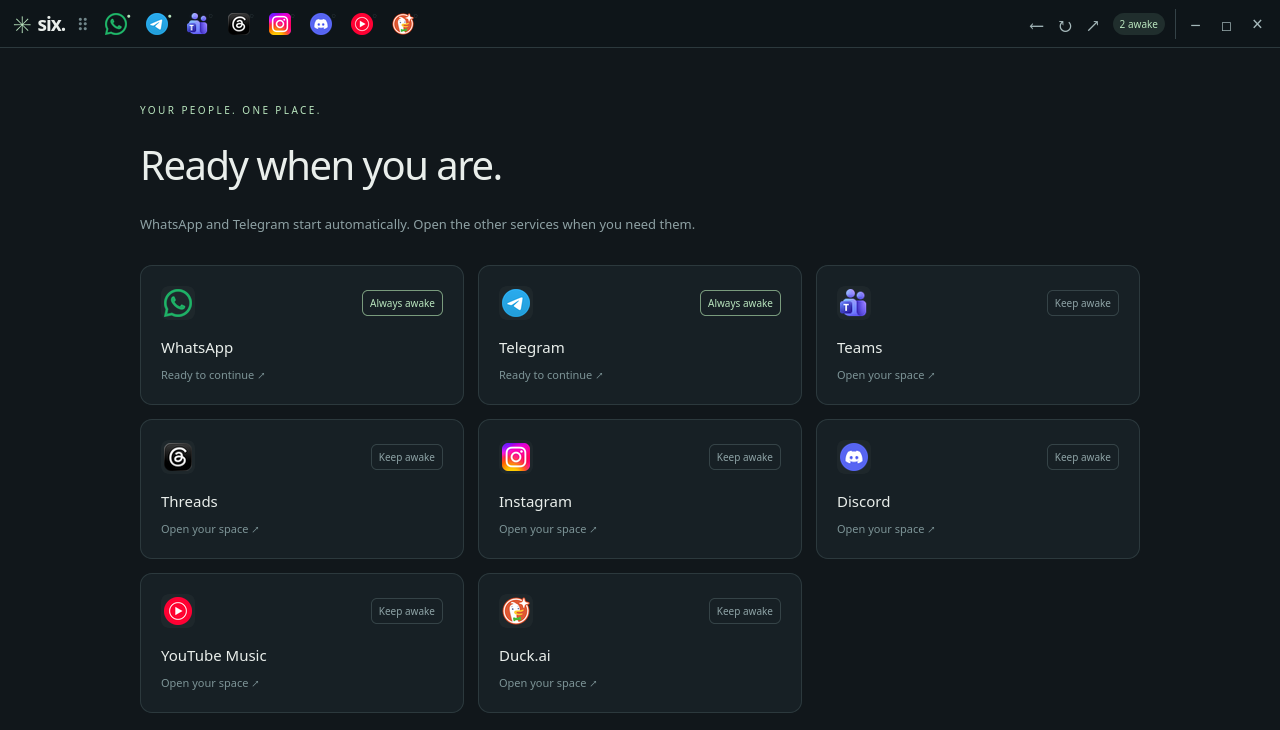
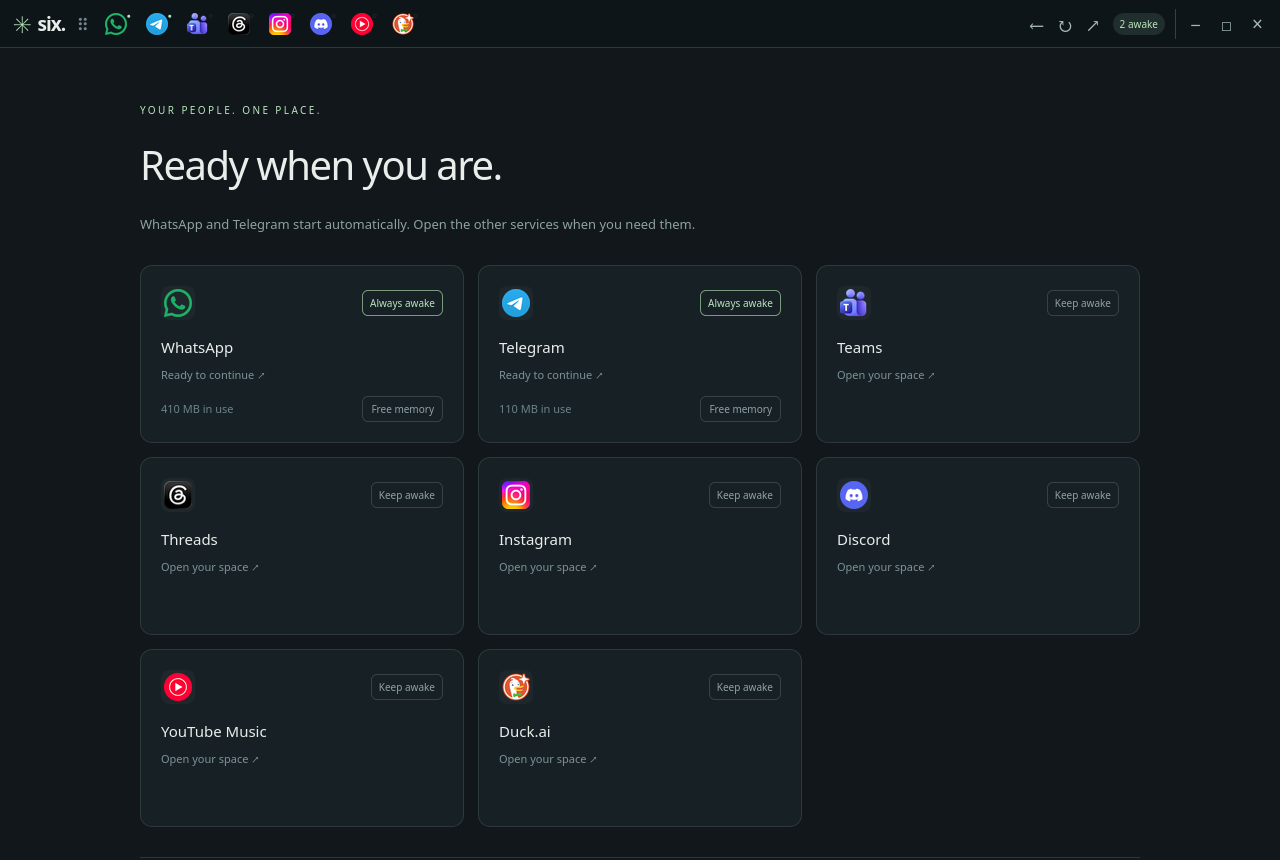
Close idle services sooner when memory is low; add a Free memory button
- Below ~2 GB available memory, idle services pause after 2 minutes and
  close a minute later; normal timing returns above ~2.5 GB. Nothing
  changes while memory is fine, and the usual protections (service in
  use, WhatsApp, Telegram, pinned, calls, recent sound) still apply
- Each open service's card gets a Free memory button: reload for
  services that must stay loaded, close for the rest; asks first for
  Teams, Discord and anything playing, refuses during a Teams call
- Cards keep equal height; README and picture updated

diff --git a/main.js b/main.js
@@ -2,7 +2,7 @@ const {components,desktopCapturer,app,BrowserWindow,WebContentsView,ipcMain,shel
 const {execFile}=require('node:child_process');
 const {checkForUpdate}=require('./electron-update');
 const {stageUpdate,pruneOldVersions,readBad}=require('./self-update');
-const {measureMemory,describeMemory}=require('./memory');
+const {measureMemory,describeMemory,availableMB}=require('./memory');
 const os=require('node:os');
 const {notificationsAllowed,audioMuted,browserUserAgent,popupAllowed,authUserAgent,isGoogleAuth,sanitizeAuthHeaders}=require('./notification-policy');
 const {teamsMediaAllowed,protectedMediaAllowed}=require('./media-policy');
@@ -14,7 +14,7 @@ const {contentStyle,authStyle}=require('./content-style');
 const {applyAdblock}=require('./adblock');
 const {contextMenuItems}=require('./context-menu');
 const path=require('node:path'),fs=require('node:fs');
-const {services,startupServices,sleepCandidates,discardCandidates,recentlyAudible,safeURL,alwaysAwake}=require('./policy');
+const {services,startupServices,sleepCandidates,discardCandidates,nextLowMemory,idleDelays,recentlyAudible,safeURL,alwaysAwake}=require('./policy');
 app.setName('Six');
 // Cap each service's HTTP cache (Chromium otherwise grows it to gigabytes per service).
 app.commandLine.appendSwitch('disk-cache-size',String(256*1024*1024));
@@ -25,7 +25,7 @@ if(hardwareVideo)app.commandLine.appendSwitch('enable-features','AcceleratedVide
 // castlabs Electron ships Widevine through a component updater; stock Electron has no `components`.
 const widevineReady=app.whenReady().then(()=>components?.whenReady()).catch(err=>console.warn('Six: Widevine unavailable',err));
 if(!app.requestSingleInstanceLock()){app.quit()}else{
-let win,tray,updateInfo=null,updating=false,active=null,quitting=false,settings={},shutdownFlushing=false,shutdownSaved=false,sessions=new Set(),views=new Map(),popups=new Map(),crashes=new Map();
+let lowMemory=false,win,tray,updateInfo=null,updating=false,active=null,quitting=false,settings={},shutdownFlushing=false,shutdownSaved=false,sessions=new Set(),views=new Map(),popups=new Map(),crashes=new Map();
 // Write then rename, so a crash or power loss mid-save cannot leave a half-written settings file.
 function save(){const file=path.join(app.getPath('userData'),'settings.json');try{fs.writeFileSync(file+'.tmp',JSON.stringify(settings));fs.renameSync(file+'.tmp',file)}catch(err){console.warn('Six: could not save settings',err.message)}}
 let memorySample={at:0,total:0,services:{}},memoryBusy=false;
@@ -138,6 +138,25 @@ function installElectronUpdate(){
   if(err.code===126||err.code===127)return; // password prompt dismissed
   dialog.showMessageBox(win&&!win.isDestroyed()?win:undefined,{type:'error',title:'Electron update failed',message:'Electron '+version+' was not installed',detail:String(stderr||err.message).slice(-600)+'\n\nSix keeps running on '+electronVersion.split('+')[0]+'.'}).catch(()=>{});
  });
+}
+// "Free memory" on a card: reload a service that is in use or must stay awake (WhatsApp, Telegram, pinned),
+// close any other one completely. Calls, meetings and playing music are never interrupted without asking.
+async function freeMemory(id){
+ const e=views.get(id),s=services.find(x=>x.id===id);
+ if(!e||!s||e.view.webContents.isDestroyed())return;
+ const parent=win&&!win.isDestroyed()?win:undefined;
+ if(id==='teams'&&(e.callActive||e.sharePickerOpen)){
+  await dialog.showMessageBox(parent,{type:'info',title:'Teams is busy',message:'Teams is in a call or sharing',detail:'Six will not reload it now. Try again after the call.',buttons:['OK']});
+  return;
+ }
+ if(id==='teams'||id==='discord'||e.view.webContents.isCurrentlyAudible()){
+  const {response}=await dialog.showMessageBox(parent,{type:'warning',title:'Free memory',message:'Reload '+s.name+' to free memory?',detail:'Anything in progress there, such as a call, a meeting or music, will stop.',buttons:['Reload','Cancel'],defaultId:1,cancelId:1});
+  if(response!==0||views.get(id)!==e)return;
+ }
+ const keepLoaded=active===id||alwaysAwake.has(id)||!!settings[id];
+ diag('freeing memory on request: '+id+(keepLoaded?' reloaded':' closed'));
+ if(keepLoaded){e.lastActive=Date.now();e.view.webContents.reload()}else release(id);
+ state();
 }
 function refreshControls(){
  for(const [id,e] of views)e.view.webContents.setAudioMuted(audioMuted(settings,id));
@@ -283,6 +302,7 @@ app.whenReady().then(()=>{
   if(action==='maximize'){if(win.isMaximized())win.unmaximize();else win.maximize()}
   if(action==='close')win.close();
   if(action==='select'&&s){select(s.id);return}
+  if(action==='free'&&s){freeMemory(s.id);return}
   if(action==='pin'&&s&&!alwaysAwake.has(id)){settings[id]=!settings[id];save();if(settings[id])setSleeping(id,false)}
   if(action==='sleep'&&s&&id!==active&&!alwaysAwake.has(id))setSleeping(id,true);
   if(action==='latest'&&active==='telegram'){const wc=views.get(active)?.view.webContents;if(wc)wc.executeJavaScript('('+jumpTelegramLatest.toString()+')()',true).catch(()=>{})}
@@ -292,7 +312,7 @@ app.whenReady().then(()=>{
   if(action==='home'){hideActive();active=null}
   state();
  });
- setInterval(()=>{const now=Date.now();for(const e of views.values())if(e.view.webContents.isCurrentlyAudible())e.audibleAt=now;const entries=[...views].map(([id,e])=>({id,lastActive:e.lastActive,sleeping:!!e.sleeping,sleptAt:e.sleptAt,keepAlive:!!settings[id]||[...popups.values()].includes(id),callActive:id==='teams'&&(!e.callMonitorReady||e.callActive||e.sharePickerOpen),audible:e.view.webContents.isCurrentlyAudible(),audibleAt:e.audibleAt}));for(const id of sleepCandidates(entries,active,now))setSleeping(id,true);for(const id of discardCandidates(entries,active,now)){diag(id+' closed after being idle');release(id)}if(win.isVisible())state()},15000).unref(); // no UI updates while hidden in the tray
+ setInterval(()=>{const now=Date.now();const available=availableMB(),was=lowMemory;lowMemory=nextLowMemory(lowMemory,available);if(lowMemory!==was)diag(lowMemory?'memory is low ('+available+' MB available): idle services close sooner':'memory has recovered ('+available+' MB available): normal idle timing');const delays=idleDelays(lowMemory);for(const e of views.values())if(e.view.webContents.isCurrentlyAudible())e.audibleAt=now;const entries=[...views].map(([id,e])=>({id,lastActive:e.lastActive,sleeping:!!e.sleeping,sleptAt:e.sleptAt,keepAlive:!!settings[id]||[...popups.values()].includes(id),callActive:id==='teams'&&(!e.callMonitorReady||e.callActive||e.sharePickerOpen),audible:e.view.webContents.isCurrentlyAudible(),audibleAt:e.audibleAt}));for(const id of sleepCandidates(entries,active,now,delays.sleep))setSleeping(id,true);for(const id of discardCandidates(entries,active,now,delays.discard)){diag(id+' closed after being idle');release(id)}if(win.isVisible())state()},15000).unref(); // no UI updates while hidden in the tray
 });
 process.on('SIGTERM',()=>{quitting=true;app.quit()});
 app.on('before-quit',event=>{

diff --git a/style.css b/style.css
@@ -1,5 +1,7 @@
 *{box-sizing:border-box;scrollbar-width:none}::-webkit-scrollbar{display:none}html,body{margin:0;background:#11171b;color:#e9eeeb;font:14px system-ui,sans-serif}html,body,body *{-webkit-app-region:no-drag!important;app-region:no-drag!important}button{font:inherit;cursor:pointer;color:inherit}button:focus-visible{outline:2px solid #b9e5be;outline-offset:2px}header{position:fixed;inset:0 0 auto;height:48px;display:flex;align-items:center;gap:5px;padding:0 8px;background:#0e1519;border-bottom:1px solid #2c393d;user-select:none}#brand{flex-shrink:0;border:0;background:none;display:flex;align-items:center;gap:5px;font-size:23px;color:#b9e5be;padding:0 4px}#brand span{font-size:19px;letter-spacing:-1px;color:#e9eeeb;font-weight:650}#move-handle{flex-shrink:0;-webkit-app-region:drag!important;app-region:drag!important;background:none;border:0;padding:5px 2px;font-size:18px;color:#72878b;cursor:grab}nav{flex:1;min-width:0;display:flex;align-items:center;gap:3px;overflow-x:auto;scrollbar-width:none;height:100%}nav::-webkit-scrollbar{display:none}.item{flex:1;min-width:37px;display:flex;align-items:center;justify-content:center;gap:6px;background:none;border:1px solid transparent;border-radius:7px;height:34px;padding:0 8px;color:#93a7aa;white-space:nowrap;font-size:11px}.item:hover{background:#202c30}.item.active{background:#253630;border-color:#3f6151;color:#edf7ee}.glyph{display:grid;place-items:center;font-size:17px;font-weight:600;flex-shrink:0}.status{font-size:8px;color:#63787c}.awake{color:#b9e5be}.tools{display:flex;align-items:center;gap:3px;flex-shrink:0}.tools button{border:0;background:none;font-size:20px;color:#a5b8ba;min-width:25px;height:30px;border-radius:5px}.tools button:hover{background:#2d3a40;color:white}.tools #notify,.tools #sound{font-size:10px;border:1px solid #344247;padding:0 6px}.tools button[hidden]{display:none}#loaded{font-size:10px;color:#b9e5be;background:#202e2d;border-radius:12px;padding:4px 7px;margin:0 4px;white-space:nowrap}.window-controls{display:flex;gap:2px;border-left:1px solid #344247;margin-left:3px;padding-left:5px}.window-controls button{width:29px;height:30px;font-size:19px}.window-controls button[data-action=close]:hover{background:#a53843;color:white}main{margin:48px auto 0;padding:55px 50px;max-width:1100px}.eyebrow{font-size:10px;letter-spacing:2.4px;color:#b9e5be}h1{font-size:40px;font-weight:500;letter-spacing:-1.5px;margin:20px 0}p{color:#8ea1a4;line-height:1.8;font-size:13px}#cards{display:grid;grid-template-columns:repeat(3,1fr);gap:14px;margin-top:30px}.card{border:1px solid #2c393d;background:#172025;border-radius:12px;padding:20px}.card-top{display:flex;align-items:center;justify-content:space-between}.card .glyph{height:34px;width:34px;border-radius:8px;background:#ffffff08;font-size:22px}.card h2{font-size:15px;font-weight:500;margin:16px 0 6px}.card small{color:#7d9497;font-size:11px}
-.card .mem{display:block;margin-top:5px;color:#6a8588;font-size:11px;min-height:14px}.card .launch{border:0;background:none;padding:0;width:100%;text-align:left}.pin{background:none;border:1px solid #354347;border-radius:6px;color:#8ea3a6;font-size:10px;padding:5px 7px}.pin.on{color:#b9e5be;border-color:#799b7d}footer{display:flex;justify-content:space-between;align-items:center;border-top:1px solid #2b373c;margin-top:30px;padding-top:20px;color:#a7b9ba;font-size:12px}footer strong{font-weight:500}footer p{font-size:11px;margin-bottom:0}.runtime{display:flex;flex-direction:column;gap:6px;text-align:right;font-size:11px;color:#73878a}@media(max-width:1100px){nav .name{display:none}.item{padding:0 6px;gap:5px}#loaded{display:none}}@media(max-width:900px){main{padding:35px}.tools #notify,.tools #sound{font-size:9px;padding:0 4px}}
+.card .memrow{display:flex;align-items:center;justify-content:space-between;gap:8px;margin-top:12px;min-height:26px}
+.card .mem{color:#6a8588;font-size:11px}
+.card .free{background:none;border:1px solid #354347;border-radius:6px;color:#8ea3a6;font-size:10px;padding:5px 8px}.card .free:hover{color:#b9e5be;border-color:#799b7d}.card .free[hidden]{display:block;visibility:hidden}.card .launch{border:0;background:none;padding:0;width:100%;text-align:left}.pin{background:none;border:1px solid #354347;border-radius:6px;color:#8ea3a6;font-size:10px;padding:5px 7px}.pin.on{color:#b9e5be;border-color:#799b7d}footer{display:flex;justify-content:space-between;align-items:center;border-top:1px solid #2b373c;margin-top:30px;padding-top:20px;color:#a7b9ba;font-size:12px}footer strong{font-weight:500}footer p{font-size:11px;margin-bottom:0}.runtime{display:flex;flex-direction:column;gap:6px;text-align:right;font-size:11px;color:#73878a}@media(max-width:1100px){nav .name{display:none}.item{padding:0 6px;gap:5px}#loaded{display:none}}@media(max-width:900px){main{padding:35px}.tools #notify,.tools #sound{font-size:9px;padding:0 4px}}
 
 /* Compact, icon-only service tabs. Names remain in accessible labels and tooltips. */
 nav .item{position:relative;flex:0 0 38px;width:38px;min-width:38px;height:34px;padding:5px;gap:0}

diff --git a/renderer.js b/renderer.js
@@ -7,15 +7,16 @@ function controlsFor(s){
  if(serviceControls.has(s.id))return serviceControls.get(s.id);
  const item=document.createElement('button');item.setAttribute('aria-label',s.name);item.className='item';item.innerHTML='<span class="glyph"><img alt="" draggable="false"></span><span class="name"></span><span class="status"></span>';
  item.querySelector('img').src=s.icon;item.querySelector('.glyph').style.color=s.color;item.querySelector('.name').textContent=s.name;item.onclick=()=>window.six.action('select',s.id);$('#nav').append(item);
- const card=document.createElement('article');card.className='card';card.innerHTML='<div class="card-top"><span class="glyph"><img alt="" draggable="false"></span><button class="pin"></button></div><button class="launch"><h2></h2><small></small><span class="mem"></span></button>';
+ const card=document.createElement('article');card.className='card';card.innerHTML='<div class="card-top"><span class="glyph"><img alt="" draggable="false"></span><button class="pin"></button></div><button class="launch"><h2></h2><small></small></button><div class="memrow"><span class="mem"></span><button class="free" hidden>Free memory</button></div>';
  card.querySelector('img').src=s.icon;card.querySelector('.glyph').style.color=s.color;card.querySelector('h2').textContent=s.name;
- const pin=card.querySelector('.pin');pin.title='Keeps this service in memory for notifications. Uses more resources.';pin.onclick=()=>window.six.action('pin',s.id);card.querySelector('.launch').onclick=()=>window.six.action('select',s.id);$('#cards').append(card);
- const controls={item,card,pin,status:item.querySelector('.status'),description:card.querySelector('small'),mem:card.querySelector('.mem')};serviceControls.set(s.id,controls);return controls;
+ const pin=card.querySelector('.pin');pin.title='Keeps this service in memory for notifications. Uses more resources.';pin.onclick=()=>window.six.action('pin',s.id);card.querySelector('.launch').onclick=()=>window.six.action('select',s.id);card.querySelector('.free').onclick=()=>window.six.action('free',s.id);card.querySelector('.free').title='Reload or close this service to give its memory back';$('#cards').append(card);
+ const controls={item,card,pin,status:item.querySelector('.status'),description:card.querySelector('small'),mem:card.querySelector('.mem'),free:card.querySelector('.free')};serviceControls.set(s.id,controls);return controls;
 }
+function showMemory(state){for(const s of state.services){const c=serviceControls.get(s.id);if(c)c.mem.textContent=s.loaded&&s.memoryMB?s.memoryMB+' MB in use':''}}
 window.six.onState(state=>{
  $('#heading').textContent=state.active?state.services.find(s=>s.id===state.active).name:'Your daily orbit';
  $('#memory').textContent=state.memory?state.memory+' MB · app processes':'Measuring…';
- for(const s of state.services){const c=serviceControls.get(s.id);if(c)c.mem.textContent=s.loaded&&s.memoryMB?s.memoryMB+' MB in use':''}
+ showMemory(state);
  $('#loaded').textContent=state.services.filter(s=>s.loaded&&!s.sleeping).length+' awake';
  // Memory samples and unread titles must not rebuild buttons or invalidate their layout.
  const controlsKey=JSON.stringify([state.active,state.quiet,state.muteAll,state.services.map(({title,memoryMB,...service})=>service)]);
@@ -30,9 +31,10 @@ window.six.onState(state=>{
   c.item.classList.toggle('active',isActive);c.item.setAttribute('aria-pressed',String(isActive));
   const statusKey=JSON.stringify([s.loaded,s.sleeping,s.keepAlive,s.alwaysAwake]);
   if(c.statusKey===statusKey)continue;
-  c.statusKey=statusKey;c.item.title=s.name+(s.sleeping?' · sleeping':'');
+  c.statusKey=statusKey;c.item.title=s.name+(s.sleeping?' · sleeping':'');c.free.hidden=!s.loaded;
   c.status.textContent=s.loaded&&!s.sleeping?'●':'◌';c.status.classList.toggle('awake',s.loaded&&!s.sleeping);
   c.description.textContent=s.sleeping?'Sleeping · resume ↗':s.loaded?'Ready to continue ↗':'Open your space ↗';
   c.pin.textContent=s.alwaysAwake?'Always awake':s.keepAlive?'Keep awake ✓':'Keep awake';c.pin.disabled=s.alwaysAwake;c.pin.classList.toggle('on',s.keepAlive);
  }
+ showMemory(state);
 });

diff --git a/policy.test.js b/policy.test.js
@@ -30,3 +30,22 @@ test('a service that was audible a moment ago is not idle, so silent gaps betwee
  assert.deepEqual(sleepCandidates([{...base,audibleAt:now-audibleGrace-1}],'teams',now),['ytmusic']);
  assert.deepEqual(discardCandidates([{...base,sleeping:true,sleptAt:0,audibleAt:now-1000}],'teams',now),[]);
 });
+test('low-memory mode starts below 2 GB, ends above 2.5 GB, and keeps its state when memory is unknown',()=>{
+ const {nextLowMemory}=require('./policy');
+ assert.equal(nextLowMemory(false,5000),false);assert.equal(nextLowMemory(false,2047),true);assert.equal(nextLowMemory(false,2048),false);
+ assert.equal(nextLowMemory(true,2300),true);   // between the two limits: stays as it was, so it does not flap
+ assert.equal(nextLowMemory(true,2559),true);assert.equal(nextLowMemory(true,2560),false);
+ assert.equal(nextLowMemory(true,null),true);assert.equal(nextLowMemory(false,undefined),false);assert.equal(nextLowMemory(false,0),false);
+});
+test('under low memory idle services pause after 2 minutes and close a minute later, with the usual protections',()=>{
+ const {idleDelays,sleepCandidates,discardCandidates,hibernateAfter,discardAfter}=require('./policy');
+ const normal=idleDelays(false),low=idleDelays(true);
+ assert.deepEqual(normal,{sleep:hibernateAfter,discard:discardAfter});assert.equal(low.sleep+low.discard,3*60*1000);
+ const now=10*60*1000,e=id=>({id,lastActive:now-2.5*60*1000,keepAlive:false});
+ const entries=[e('threads'),e('whatsapp'),e('teams'),{...e('discord'),keepAlive:true},{...e('instagram'),audible:true},{...e('ytmusic'),audibleAt:now-1000}];
+ assert.deepEqual(sleepCandidates(entries,'duckai',now,normal.sleep),[]);                          // 2.5 min idle is fine when memory is fine
+ assert.deepEqual(sleepCandidates(entries,'teams',now,low.sleep),['threads']);                    // teams is the one in use; pinned, audible and recent-sound services stay
+ assert.deepEqual(sleepCandidates([{...e('teams'),callActive:true}],'x',now,low.sleep),[]);        // a call is never idle
+ const frozen={...e('threads'),sleeping:true,sleptAt:now-90*1000};
+ assert.deepEqual(discardCandidates([frozen],'x',now,low.discard),['threads']);assert.deepEqual(discardCandidates([frozen],'x',now,normal.discard),[]);
+});

diff --git a/policy.js b/policy.js
@@ -13,5 +13,15 @@ function sleepCandidates(entries,active,now,delay=hibernateAfter){return entries
 // Frozen pages still hold their memory; close them after a longer idle so the RAM is returned.
 const discardAfter=5*60*1000; // closed 10 minutes after last use (5 to pause + 5 more)
 function discardCandidates(entries,active,now,delay=discardAfter){return entries.filter(e=>e.sleeping&&e.id!==active&&!alwaysAwake.has(e.id)&&!e.keepAlive&&!e.callActive&&!recentlyAudible(e,now)&&now-(e.sleptAt||0)>=delay).map(e=>e.id)}
+// When the system runs short of memory, idle services are paused sooner and closed a minute later
+// (3 minutes in all instead of 10). Normal timing returns once memory has recovered. WhatsApp, Telegram,
+// pinned services, calls, sound and the service in use are protected exactly as before.
+const lowMemoryEnterMB=2048, lowMemoryLeaveMB=2560;
+const lowMemoryHibernateAfter=2*60*1000, lowMemoryDiscardAfter=60*1000;
+function nextLowMemory(wasLow,availableMB){
+ if(!(availableMB>0))return wasLow;                       // unknown: keep the current mode
+ return wasLow?availableMB<lowMemoryLeaveMB:availableMB<lowMemoryEnterMB;
+}
+function idleDelays(lowMemory){return lowMemory?{sleep:lowMemoryHibernateAfter,discard:lowMemoryDiscardAfter}:{sleep:hibernateAfter,discard:discardAfter}}
 function safeURL(value){try{return ['https:','http:'].includes(new URL(value).protocol)}catch{return false}}
-module.exports={services,startupServices,sleepCandidates,discardCandidates,recentlyAudible,safeURL,alwaysAwake,hibernateAfter,discardAfter,audibleGrace};
+module.exports={services,startupServices,sleepCandidates,discardCandidates,nextLowMemory,idleDelays,lowMemoryEnterMB,lowMemoryLeaveMB,recentlyAudible,safeURL,alwaysAwake,hibernateAfter,discardAfter,audibleGrace};

diff --git a/memory.test.js b/memory.test.js
@@ -21,3 +21,10 @@ test('the log line lists services from largest to smallest',()=>{
  assert.equal(describeMemory({total:2300,services:{telegram:400,whatsapp:790}}),'memory 2300 MB in total; page by service: whatsapp 790, telegram 400');
  assert.match(describeMemory({total:900,services:{}}),/none open/);
 });
+test('available memory is read from /proc/meminfo, and unreadable input gives null',()=>{
+ const {parseAvailableMB,availableMB}=require('./memory');
+ const text='MemTotal:       15019788 kB\nMemFree:         1700000 kB\nMemAvailable:    7654321 kB\nBuffers: 1 kB\n';
+ assert.equal(parseAvailableMB(text),Math.round(7654321/1024));
+ assert.equal(parseAvailableMB('nothing'),null);assert.equal(parseAvailableMB(undefined),null);
+ assert.equal(availableMB(()=>text),Math.round(7654321/1024));assert.equal(availableMB(()=>{throw new Error('no /proc')}),null);
+});

diff --git a/memory.js b/memory.js
@@ -30,4 +30,13 @@ function describeMemory(m){
  return 'memory '+m.total+' MB in total; page by service: '+(parts.join(', ')||'none open');
 }
 
-module.exports={readPssKB,measureMemory,describeMemory};
+// Memory the system could give to a program without swapping, from /proc/meminfo text (null if unreadable).
+function parseAvailableMB(text){
+ const m=/^MemAvailable:\s+(\d+) kB/m.exec(String(text));
+ return m?Math.round(Number(m[1])/1024):null;
+}
+function availableMB(readFileSync=fs.readFileSync){
+ try{return parseAvailableMB(readFileSync('/proc/meminfo','utf8'))}catch{return null}
+}
+
+module.exports={readPssKB,measureMemory,describeMemory,parseAvailableMB,availableMB};

diff --git a/README.md b/README.md
@@ -26,6 +26,8 @@ Each service has its own saved login, kept separate from the others.
 - **Starts small.** Only WhatsApp and Telegram load at startup, including when Six starts hidden in the tray. The others load when you open them.
 - **Pauses what you are not using.** A service you have not used for 5 minutes is paused: its page and drafts stay in memory, but background work stops.
 - **Frees memory.** After 5 more minutes (10 in total) a paused service is closed to give its memory back. It reloads when you open it again, and you stay signed in.
+- **Quicker when memory runs short.** If the system has less than about 2 GB of memory free, idle services are paused after 2 minutes and closed a minute later (3 in all), until more than about 2.5 GB is free again. When memory is fine, nothing changes.
+- **Free memory on demand.** Each open service's card has a **Free memory** button. It reloads WhatsApp, Telegram, pinned services and the one you are in, and closes any other service completely. It asks first for Teams, Discord and anything playing sound, and it refuses while Teams is in a call or sharing.
 - **Never closed:** WhatsApp, Telegram, services you set to **Keep awake**, services with a sign-in popup open, calls, and anything playing audio.
 - **Capped cache.** Each service's web cache is limited to 256 MB.
 - **Quiet in the tray.** Closing the window keeps Six running in the tray. Six stops refreshing its own screen while hidden.
